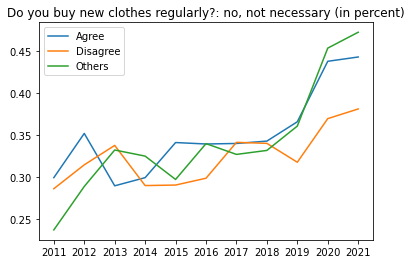
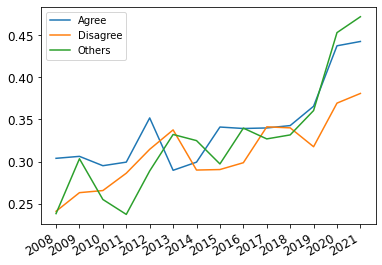
evolutions in tex

Changed region(s): [[0.0, 0.0, 1.0, 0.9697], [0.3743, 0.4242, 0.4031, 0.4848]]

diff --git a/writing/proposal_ReductionRecomposition_voluntary.tex b/writing/proposal_ReductionRecomposition_voluntary.tex
@@ -355,6 +355,125 @@ Steps to be taken
 
 \section{Results}
 
+\begin{figure}[h!!]
+	\centering	
+	\caption{Share of panelists whcih don't find it necessary to buy new furniture/ clothes}\label{fig:evolution_notNecessary}	
+	\begin{minipage}[h!!]{0.4\textwidth}  
+		%	\captionsetup{width=.45\linewidth}
+		%\centering\footnotesize{(a) not necessary to buy new clothes}
+		\includegraphics[width=1\textwidth]{../codding_data/results/liss/total_share_notnecessary_ci307.png}
+	\end{minipage}
+	\begin{minipage}[h!!]{0.4\textwidth}
+		%	\captionsetup{width=.45\linewidth}
+		%\centering\footnotesize{(b) I prefer new products}
+		\includegraphics[width=1\textwidth]{../codding_data/results/liss/total_share_notnecessary_ci306.png}
+	\end{minipage}
+	\floatfoot{Notes: \tiny{ The evolution of the share of panelists which think that it is not necessary to replace old furniture or to buy new clothes over time (Not yet matched with environmental dataset information). Panel size increases over waves: $\approx$700 to $\approx$1500.}}
+\end{figure}
+
+As regards figure \ref{fig:evolution_notNecessary}, the following questions arise: 
+(1) who are these people who think it is not necessary;
+(2) what explains the rise in the share? \ar probit/ logit over time or pooled (pooled over time)
+
+\begin{figure}[h!!]
+	\centering	
+	\caption{Share of panelists which don't find it necessary to buy new furniture/ clothes: by Willingness to change one's lifestyle}\label{fig:evolution_notNecessary_bygroup}	
+	\begin{minipage}[h!!]{0.32\textwidth}  
+		%	\captionsetup{width=.45\linewidth}
+		\centering\footnotesize{(a) Replacing new furniture not necessary}
+		\includegraphics[width=1\textwidth]{../codding_data/results/liss/broad_groups_notnecessaryqk20a175_ci307.png}
+	\end{minipage}
+	\begin{minipage}[h!!]{0.32\textwidth}
+		%	\captionsetup{width=.45\linewidth}
+		\centering\footnotesize{(b) Buying new clothes regularly not necessary}
+		\includegraphics[width=1\textwidth]{../codding_data/results/liss/broad_groups_notnecessaryqk20a175_ci306.png}
+	\end{minipage}
+	\floatfoot{Notes: There is no clear higher share of panelists in the group which is willing to change one's lifestyle for the environment than those which disagree. Higher variance in the group which disagrees; could be due to smaller size.}
+\end{figure}
+
+\begin{figure}[h!!]
+	\centering	
+	\caption{\tr{Share of panelists which don't find it necessary to buy new furniture/ clothes: by buys second hand regularly lifestyle}}\label{fig:evolution_notNecessary_bygroup:2ndHand}	
+	\begin{minipage}[h!!]{0.32\textwidth}  
+		%	\captionsetup{width=.45\linewidth}
+		\centering\footnotesize{(a) Replacing new furniture not necessary}
+		\includegraphics[width=1\textwidth]{../codding_data/results/liss/broad_groups_notnecessaryqk20a135_ci307.png}
+	\end{minipage}
+	\begin{minipage}[h!!]{0.32\textwidth}
+		%	\captionsetup{width=.45\linewidth}
+		\centering\footnotesize{(b) Buying new clothes regularly not necessary}
+		\includegraphics[width=1\textwidth]{../codding_data/results/liss/broad_groups_notnecessaryqk20a135_ci306.png}
+	\end{minipage}
+	\floatfoot{Notes: When grouping by whether a panelist buys second hand products regularly there is a clear higher share of that thinks new furniture is not necessary. ! Could be that income plays a determining role here.}
+\end{figure}
+
+\begin{figure}[h!!]
+	\centering	
+	\caption{Share of panelists which don't find it necessary to buy new furniture/ clothes: by preferring new products}\label{fig:evolution_notNecessary_bygroup:NewProducts}	
+	\begin{minipage}[h!!]{0.32\textwidth}  
+		%	\captionsetup{width=.45\linewidth}
+		\centering\footnotesize{(a) Replacing new furniture not necessary}
+		\includegraphics[width=1\textwidth]{../codding_data/results/liss/broad_groups_notnecessaryqk20a148_ci307.png}
+	\end{minipage}
+	\begin{minipage}[h!!]{0.32\textwidth}
+		%	\captionsetup{width=.45\linewidth}
+		\centering\footnotesize{(b) Buying new clothes regularly not necessary}
+		\includegraphics[width=1\textwidth]{../codding_data/results/liss/broad_groups_notnecessaryqk20a148_ci306.png}
+	\end{minipage}
+	\floatfoot{Notes: Whether a panelist prefers to buy new products is also indicative of replacing furniture and buying new clothes regularly. }
+\end{figure}
+
+
+\begin{figure}[h!!]
+	\centering	
+	\caption{Share of panelists which don't find it necessary to buy new furniture/ clothes: by preferring to own things}\label{fig:evolution_notNecessary_bygroup:OwningProducts}	
+	\begin{minipage}[h!!]{0.32\textwidth}  
+		%	\captionsetup{width=.45\linewidth}
+		\centering\footnotesize{(a) Replacing new furniture not necessary}
+		\includegraphics[width=1\textwidth]{../codding_data/results/liss/broad_groups_notnecessaryqk20a144_ci307.png}
+	\end{minipage}
+	\begin{minipage}[h!!]{0.32\textwidth}
+		%	\captionsetup{width=.45\linewidth}
+		\centering\footnotesize{(b) Buying new clothes regularly not necessary}
+		\includegraphics[width=1\textwidth]{../codding_data/results/liss/broad_groups_notnecessaryqk20a144_ci306.png}
+	\end{minipage}
+	\floatfoot{Notes: Same as in previous graph }
+\end{figure}
+
+
+\begin{figure}[h!!]
+	\centering	
+	\caption{Share of panelists which don't find it necessary to buy new furniture/ clothes: by we have to live simpler lives}\label{fig:evolution_notNecessary_bygroup:Simpler}	
+	\begin{minipage}[h!!]{0.32\textwidth}  
+		%	\captionsetup{width=.45\linewidth}
+		\centering\footnotesize{(a) Replacing new furniture not necessary}
+		\includegraphics[width=1\textwidth]{../codding_data/results/liss/broad_groups_notnecessaryqk20a181_ci307.png}
+	\end{minipage}
+	\begin{minipage}[h!!]{0.32\textwidth}
+		%	\captionsetup{width=.45\linewidth}
+		\centering\footnotesize{(b) Buying new clothes regularly not necessary}
+		\includegraphics[width=1\textwidth]{../codding_data/results/liss/broad_groups_notnecessaryqk20a181_ci306.png}
+	\end{minipage}
+	\floatfoot{Notes:  Being of the opinion that simples lives have to be lived raises the probability to agree with new things not being necessary. \textbf{Panel (b) stronger increase over time?}}
+\end{figure}
+
+
+\begin{figure}[h!!]
+	\centering	
+	\caption{Share of panelists which don't find it necessary to buy new furniture/ clothes: by it is a moral duty to  ... }\label{fig:evolution_notNecessary_bygroup:moral}	
+	\begin{minipage}[h!!]{0.32\textwidth}  
+		%	\captionsetup{width=.45\linewidth}
+		\centering\footnotesize{(a) Replacing new furniture not necessary}
+		\includegraphics[width=1\textwidth]{../codding_data/results/liss/broad_groups_notnecessaryqk20a183_ci307.png}
+	\end{minipage}
+	\begin{minipage}[h!!]{0.32\textwidth}
+		%	\captionsetup{width=.45\linewidth}
+		\centering\footnotesize{(b) Buying new clothes regularly not necessary}
+		\includegraphics[width=1\textwidth]{../codding_data/results/liss/broad_groups_notnecessaryqk20a183_ci306.png}
+	\end{minipage}
+	\floatfoot{Notes:  }
+\end{figure}
+
 %-------------------------------------
 \clearpage
 \bibliography{../../bib_2_0}

diff --git a/codding_data/codes/overconsumption/3_liss_env_incomeWaves.py b/codding_data/codes/overconsumption/3_liss_env_incomeWaves.py
@@ -96,20 +96,54 @@ meaning=['Do you buy new clothes regularly?', \
          'Do you replace worn furniture with new furniture?']
 dicc=dict(zip(cons, meaning))    
 
-for i in cons:
-   data_long[i+'_cat'] = data_long[i].astype('category').cat.codes
-   # no i dont think it is necessary is encoded as 1
+# generate indicator for answert to ci306/7
+
 
 # drop nans => same for both variables
 helper=data_long[~pd.isna(data_long['ci307'])]
 
-helper.ci306_cat[helper.ci306_cat!=1]=0
-helper.ci307_cat[helper.ci307_cat!=1]=0
+for i in cons:
+    # 1) generate list of possible answers
+    groupps=list(helper[i].drop_duplicates())
+    # 2) only keep answers with necessary
+    res =  [True for s in range(len(groupps))]
+    for s in range(0, len(groupps)):
+        res[s]=str.__contains__(groupps[s], 'necessary')
+    list_positive_answer = list(compress(groupps, res))
+    
+    #3) generate indicator
+    helper[i+'_cat']=0
 
-# drop 2008-2010 as no observation from environmental dataset in panel
-helper=helper[helper.year.astype(float)>2010]
+    #4) generate indicator
+    if i=='ci306':
+        helper.ci306_cat[helper.ci306.isin(list_positive_answer)]=1
+    elif i== 'ci307':
+        helper.ci307_cat[helper.ci307.isin(list_positive_answer)]=1
+        
+        
+#ss=helper[helper.year.astype(float)<2010]
 
-""" collapse data set by distinct env. variable indicators. """
+""" plot total"""
+ 
+# total share evolution
+data_total=helper[[ 'year', 'ci306_cat', 'ci307_cat']].groupby(['year'], as_index=False).sum()
+total_all=helper[[ 'year', 'ci306_cat', 'ci307_cat']].groupby(['year'], as_index=False).size()
+data_total=data_total.merge(total_all[[ 'year','size']],  left_on= ['year'], right_on= [ 'year'], how= 'left', validate='1:1', indicator='source')
+
+# generate share for both variables
+for i in cons:
+    data_total[i+'share']=data_total[i+'_cat'].values/data_total['size']
+
+    fig = plt.figure()
+    plt.plot(data_total.year, data_total[i+'share'])
+    plt.title(dicc[i])
+    plt.legend(['no, not necessary (in percent)'])
+    plt.xticks(rotation=30, ha='right', fontsize = 12)
+    #plt.show()
+    plt.savefig('../../results/liss/total_share_notnecessary_'+i+'.png', format='png', bbox_inches='tight')
+    plt.clf()
+
+""" Plots by env. variable indicators. """
 
 for v in ['qk20a175', 'qk20a135', 'qk20a181', 'qk20a183', 'qk20a144', 'qk20a148']:
     
@@ -144,24 +178,6 @@ for v in ['qk20a175', 'qk20a135', 'qk20a181', 'qk20a183', 'qk20a144', 'qk20a148'
         plt.savefig('../../results/liss/share_notnecessary'+v+'_'+i+'.png', format='png', bbox_inches='tight')
         plt.clf()
         
-    """ plot total"""
-    
-    # total share evolution
-    data_total=helper[[ 'year', 'ci306_cat', 'ci307_cat']].groupby(['year'], as_index=False).sum()
-    total_all=helper[[ 'year', 'ci306_cat', 'ci307_cat']].groupby(['year'], as_index=False).size()
-    data_total=data_total.merge(total_all[[ 'year','size']],  left_on= ['year'], right_on= [ 'year'], how= 'left', validate='1:1', indicator='source')
-    
-    # generate share for both variables
-    for i in cons:
-        data_total[i+'share']=data_total[i+'_cat'].values/data_total['size']
-    
-        fig = plt.figure()
-        plt.plot(data_total.year, data_total[i+'share'])
-        plt.title(dicc[i])
-        plt.legend(['no, not necessary (in percent)'])
-        #plt.show()
-        plt.savefig('../../results/liss/total_share_notnecessary'+v+'_'+i+'.png', format='png', bbox_inches='tight')
-        plt.clf()
         
     """ plot broader categories"""
     
